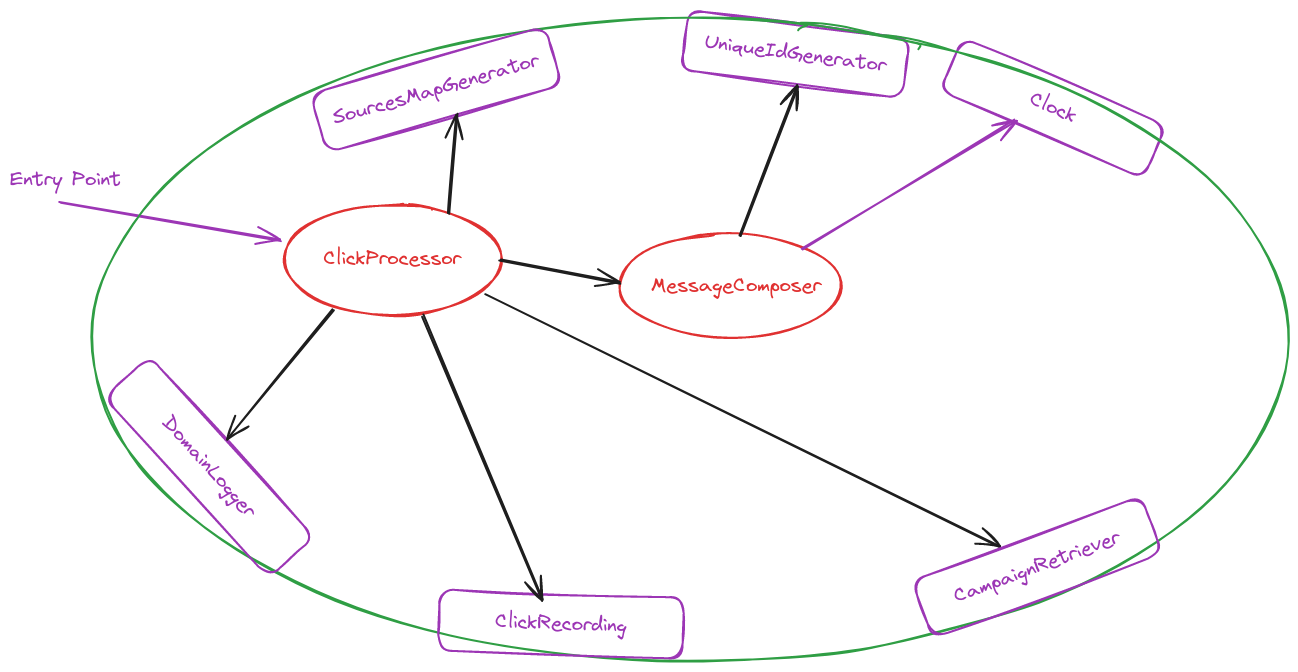
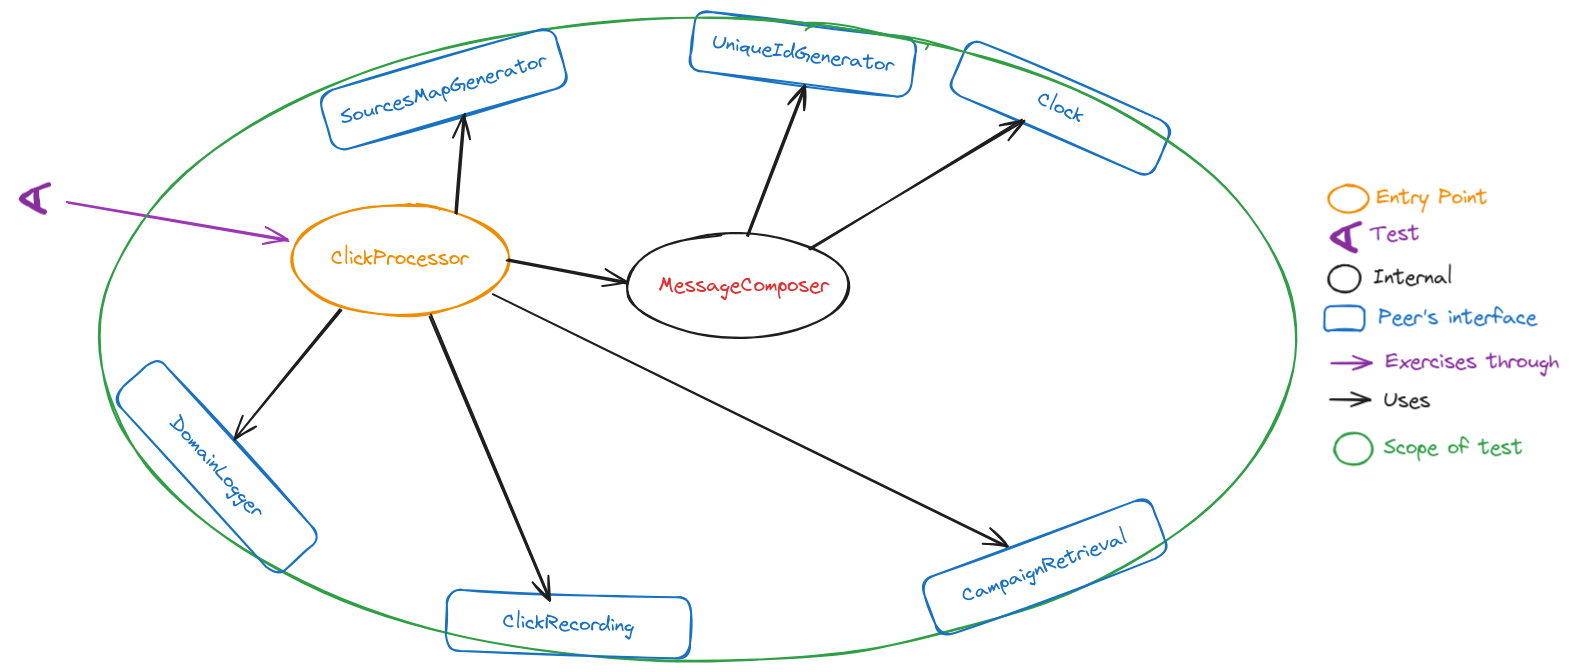
refining post

diff --git a/_i18n/es/_posts/2026-02-6-bundling-up.md b/_i18n/es/_posts/2026-02-6-bundling-up.md
@@ -51,7 +51,6 @@ In short, the **“Composite Simpler Than the Sum of Its Parts” rule of thumb 
 This rule is useful for evaluating the outcome of a refactoring that was intended to eliminate complexity by introducing a new abstraction.
 
 The **bundling up** technique can be used to detect both object and value types.
-
 ### 2. 1. Detecting value types.
 
 For value types, **bundling up** consist in detecting and eliminating existing [data clumps](https://www.informit.com/articles/article.aspx?p=2952392&seqNum=10) through refactoring<a href="#nota5"><sup>[5]</sup></a>.
@@ -64,7 +63,7 @@ Anytime we observe a cluster of related collaborator objects that work together 
 
 This composite object will hide the complexity of the cluster of related objects in an abstraction that will allow us to program at a higher level. This will not only improve cohesion, but also will reduce coupling since the consumers will only couple to the interface of the new composite object.
 
-The new abstraction will improve clarity because it delimits the scope of of the cluster of related objects more clearly, and, its having to name it will help us understand the domain better.
+The new abstraction will improve clarity because it delimits the scope of the cluster of related objects more clearly, and its having to name it will help us understand the domain better.
 
 #### 2. 2. 1. How do we apply a **bundling up**?
 
@@ -76,15 +75,12 @@ We introduce a new composite object that bundles up some object’s peers throug
 
 
 After this refactoring, the new composite object is an **internal** of the object from which it was extracted, and, as such, introducing it does not affect the tests.
-
 #### 2. 2. 2. Signals that a **bundling up** is necessary.
-
 a. Detecting code smells in production code.
 
 We may detect that the object using the cluster of related collaborating objects code suffers from the [divergent change code smell](https://www.informit.com/articles/article.aspx?p=2952392&seqNum=7) which points to a cohesion problem, the class has too many responsibilities.
 
 In chapter 20, of his [Working effectively with legacy code](https://www.oreilly.com/library/view/working-effectively-with/0131177052/) book, Michael Feather explains several heuristics to identify responsibilities in a class. Some of them might prove useful to identify clusters of fields and private methods that are being used together to fulfill a responsibility that is not the main responsibility of the class<a href="#nota7"><sup>[7]</sup></a>. If most of the fields in the cluster are peers, we have found a candidate cluster for applying a **bundling up**. Notice that those clusters might be hidden by [long methods](https://web.archive.org/web/20220516190447/https://www.informit.com/articles/article.aspx?p=102271&seqNum=3), so we may need to decompose those first.
-
 b. Detecting testability problems.
 
 These testability problems will appear in the tests of the object for which the cluster of related collaborating objects act as peers. We'll notice that the set up of the test gets too complicated, or that there are too many moving parts to get the object under test into a relevant state. The [GOOS book](linklink) authors include an example, “Bloated Constructor”**, in the chapter XX devoted to test smells that may point to design problems<a href="#nota8"><sup>[8]</sup></a>.
@@ -105,6 +101,7 @@ Then we refactored the tests, to simplify them:
 
 2. We used test doubles to simulate the behaviour of the composite in the tests of the code from which it was extracted.
 
+
 In the case of a **bundling up**, promoting the **internal** composite object to be a **peer** won't reduce the <a href="https://www.youtube.com/watch?v=bvRRbWbQwDU">structure-insensitivity</a> of the tests, as was the case for a **breaking out**. This happens because a **bundling up** reduces the overall coupling.
 
 Imagine that we have an object that has 5 peers, 3 of which form a cluster that work together to fulfill some responsibility for the object. If we **bundle up** the cluster in a new composite object and make it a peer, the object will now have 3 peers (2 original peers that were not part of the cluster + the new composite object) instead of the original 5. This means that when there are testability problems making the new composite object a peer makes sense because it increases the <a href="https://www.youtube.com/watch?v=bvRRbWbQwDU">structure-insensitivity</a> of the tests<a href="#nota9"><sup>[9]</sup></a>. 	 	 	
@@ -123,7 +120,7 @@ Some time ago, we were developing an application that processed clicks on ads in
 
 Early in the development of the application we had a design like the one shown the following diagram:
 
-Ejemplo inicial <- quizás se entienda mejor en UML??, una leyenda podría ir bien.
+
 
 <figure>
 <img src="/assets/posts/bundling-up/clickProcessor_before_before_bundling.png"
@@ -146,13 +143,13 @@ We also observed that most of the churn in `ClickProcessor` was coming from iter
 
 There were three peers that were working together to retrieve the campaign to which an ad was assigned: `CampaignsMapping`, `CampaignsRepository` and `EuroExchangeService`, so we decided to apply a **bundle up** to this cluster to shield us from the churn in the campaign retrieval logic, reduce coupling and improve the maintainability of the tests.
 
-So we extracted a new composite object, `CampaignRetriever` which packaged `CampaignsMapping`, `CampaignsRepository` and `EuroExchangeService`, and the campaign retrieval logic. 
+So we extracted a new composite object, `CampaignRetrieval` which packaged `CampaignsMapping`, `CampaignsRepository` and `EuroExchangeService`, and the campaign retrieval logic. 
 
 ### After introducing the new composite type.
 
-The new composite type, `CampaignRetriever`, was an **internal** of `ClickProcessor`. The resulting design is shown in the following diagram:
+The new composite type, `CampaignRetrieval`, was an **internal** of `ClickProcessor`. The resulting design is shown in the following diagram:
 
-Después del primer refactoring <- quizás se entienda mejor en UML??, una leyenda podría ir bien.
+
 
 <figure>
 <img src="/assets/posts/bundling-up/clickProcessor_before_bundling.png"
@@ -161,20 +158,18 @@ style="display: block; margin-left: auto; margin-right: auto; width: 100%;" />
 <figcaption><strong>Design after introducing the new composite object.</strong></figcaption>
 </figure>
 
-
 `ClickProcessor` had 5 collaborators, of which 3 were peers, `SourcesMapGenerator`, `DomainLogger` and `ClickRecording`; and 2 were internals:
 
 * `MessageComposer` which in turn had 2 peers `Clock` and `UniqueIdGenerator`; and
 
-* `CampaignRetriever` which in turn had 3 peers also `CampaignsMapping`, `CampaignsRepository` and `EuroExchangeService`.
+* `CampaignRetrieval` which in turn had 3 peers also `CampaignsMapping`, `CampaignsRepository` and `EuroExchangeService`.
 
 This refactoring reduced the overall coupling because `ClickProcessor` went from having 7 collaborators to having 5. As we explained, the coupling reduction is equal to the number of peers bundled in the new composite object minus one, in this case, 3 – 1 = 2.
 
-Since, `CampaignRetriever` was still an internal of ClickProcessor, the tests didn't change after this refactoring.
+Since, `CampaignRetrieval` was still an internal of ClickProcessor, the tests didn't change after this refactoring.
 
-Finally, we promoted `CampaignRetriever` to be a **peer** and simplified the tests (the details of this refactoring in section <a href="#refactoring_tests"><sup>2. 2. 3. Refactoring the tests</sup></a>). The resulting design is shown in the following diagram:
+Finally, we promoted `CampaignRetrieval` to be a **peer** and simplified the tests (the details of this refactoring in section <a href="#refactoring_tests"><sup>2. 2. 3. Refactoring the tests</sup></a>). The resulting design is shown in the following diagram:
 
-Después de promover el composite a peer <- quizás se entienda mejor en UML??, una leyenda podría ir bien.
 
 <figure>
 <img src="/assets/posts/bundling-up/clickProcessor_after_bundling.png"
@@ -183,8 +178,7 @@ style="display: block; margin-left: auto; margin-right: auto; width: 100%;" />
 <figcaption><strong>Design after promoting to peer the new composite object.</strong></figcaption>
 </figure>
 
-
-After this final refactoring, the `ClickProcessor` class still had 5 collaborators, but now 4 of them were peers, `SourcesMapGenerator`, `DomainLogger`, `ClickRecording` and `CampaignRetriever`; and only 1 was an internal, `MessageComposer` which in turn had 2 peers `Clock` and `UniqueIdGenerator`.
+After this final refactoring, the `ClickProcessor` class still had 5 collaborators, but now 4 of them were peers, `SourcesMapGenerator`, `DomainLogger`, `ClickRecording` and `CampaignRetrieval`; and only 1 was an internal, `MessageComposer` which in turn had 2 peers `Clock` and `UniqueIdGenerator`.
 
 The tests of `ClickProcessor` got much simpler because they were coupled to 6 peers instead of the 8 ones before the refactoring, and therefore used 6 test doubles. The reduction in coupling we observed in `ClickProcessor` in the previous step got transmitted to its tests.
 	 	 	 	
@@ -196,34 +190,50 @@ The tests of the campaign retrieval logic were also more focused and with less m
 
 Reducing the number of peers in 2 may not seem much, but shielding the tests from the churn in the campaign retrieval logic made a big difference for us.
 
-Eventually the campaign retrieval grew in complexity until it became a subsystem in its own right<a href="#nota10"><sup>[10]</sup></a>. Having applied a **bundling up** to that initial cluster of 3 objects proved to be a very successful bet.
+Eventually the logic to retrieve a campaign grew in complexity until it became a subsystem in its own right<a href="#nota10"><sup>[10]</sup></a>. Having applied a **bundling up** to that initial cluster of 3 objects proved to be a very successful bet.
 
 Besides the bet of applying a **full bundling up** eventually proved very successful, because the complexity of the campaign retrieval grew a lot. When I left the application the implementation of `CampaignRetrieval` had 5 peers and several internals, becoming a subsystem in its own right.
 
-Una especie de resumen rápido de cómo cambia el diseño de un paso a otro, Cómo lo podría representar????
 
-* Before the bundling-up process we had:
-> ClickProcessor:  1 internal (2 peers) + 6 peers.
-> ClickProcessorTest:  used 8 test doubles.
 
-* When we introduced the new composite type:
-> ClickProcessor: 1 internal (2 peers) + 1 internal (3 peers) + 3 peers.
-> ClickProcessorTest: used 8 test doubles.
 
-* After finishing the bundling-up process
-> ClickProcessor: 1 internal (with 2 peers) + 4 peers.
-> ClickProcessorTest: used 6 test doubles.
 
-Rehacer la siguiente imagen:
+<figure>
+<img src="/assets/posts/bundling-up/campaign_retrieval_subsystem.png"
+alt="CampaignRetrieval subsystem."
+style="display: block; margin-left: auto; margin-right: auto; width: 100%;" />
+<figcaption><strong>CampaignRetrieval subsystem.</strong></figcaption>
+</figure>
+
+This table summarizes the reduction in complexity on this stage of the process.
+
+| Stage                              	| ClickProcessor                                                             	| ClickProcessorTest | Complexity             	|
+|:----------------------------------------:|:--------------------------------------------------------------------------------:|:--------------------:|:----------------------------:|
+| Before bundling-up                 	| 1 internal (2 peers) + 6 peers, 8 peers in total                           	| 8 test doubles 	| Many peers, high coupling to tests |
+| After introducing composite type   	| 1 internal (2 peers) + 1 internal (3 peers) + 3 peers, 8 peers in total    	| 8 test doubles 	| Better cohesion, same coupling to tests |
+| After finishing bundling-up process	| 1 internal (with 2 peers) + 4 peers, 8 peers in total                      	| 6 test doubles 	| Same cohesion, reduced coupling to tests: improved testability |
+
+<figcaption><strong>Stages showing a reduction in complexity.</strong></figcaption>
 
 
 ## 4. Conclusions.
 
-Blablablabllablla blallvfblalla blelbel nvkjdagkljbgeñwb
+The **bundling up** technique is a refactoring that manages and reduces complexity by grouping related collaborators into a single composite object. It is an application of the **“Composite Simpler Than the Sum of Its Parts”** rule of thumb. Rather than merely aggregating objects, **bundling up**’s goal is to create a higher-level abstraction that makes the design easier to understand and use.
 
-Our next post will focus on blabla
+This technique can be applied both to value and object types. In the case of values, bundling up involves detecting and eliminating [data clumps](https://www.informit.com/articles/article.aspx?p=2952392&seqNum=10) by introducing meaningful abstractions that represent them explicitly. For objects, it consists of identifying clusters of collaborators that work together to fulfill a specific responsibility and packaging them inside a new composite object. By doing so, implicit concepts become explicit abstractions with clear boundaries and responsibilities.
+
+Applying **bundling up** brings several important design benefits. It improves [cohesion](https://blog.cleancoder.com/uncle-bob/2014/05/08/SingleReponsibilityPrinciple.html) by isolating a distinct responsibility in its own abstraction, and it reduces coupling because clients interact with a single composite object instead of multiple individual objects. It also improves clarity and understanding of the domain, since naming the new abstraction helps reveal the underlying concept it represents. At the same time, it strengthens [information hiding](https://wiki.c2.com/?InformationHiding) by shielding consumers from internal interactions and future changes within the packaged cluster of objects.
+
+In the case of object types, there are signals that indicate when **bundling up** may be necessary. In production code, code smells such as [divergent change](https://www.informit.com/articles/article.aspx?p=2952392&seqNum=7), [long methods](https://web.archive.org/web/20220516190447/https://www.informit.com/articles/article.aspx?p=102271&seqNum=3), or [large classes](https://web.archive.org/web/20220524180212/https://www.informit.com/articles/article.aspx?p=102271&seqNum=4) often point to hidden clusters of related behavior. In tests, the need for **bundling up** becomes apparent when setup logic grows complicated, when many test doubles are required, or when tests become fragile because they are tightly coupled to too many collaborators. These testability problems are strong indicators that an implicit abstraction should be made explicit.
+
+The refactoring process typically involves creating a new composite object, injecting the relevant **peers** into it, and moving the related behavior into this new abstraction. Initially, the composite can remain an **internal** of the original object, leaving existing tests unchanged. If testability problems persist, the composite can then be promoted to an explicit **peer**, which usually simplifies tests by reducing the number of awkward collaborators they must simulate. Unlike **breaking out**, **bundling up** generally increases the <a href="https://www.youtube.com/watch?v=bvRRbWbQwDU">structure-insensitivity</a> of tests because it decreases coupling.
+
+In summary, **bundling up** is an effective way to uncover meaningful abstractions, reduce complexity, and improve maintainability in both code and tests. Even small reductions in coupling can have a significant impact when they shield consumers from volatile areas of the system. As shown, in the example, over time, a well-chosen composite may naturally evolve into a subsystem of its own, confirming the value of the technique as a long-term investment to create a more sustainable design.
+
+Our next post in this series will focus on the **budding off** technique.
 	 	 	 	
 Thanks for coming to the end of this post. We hope that what we explain here will be useful to you.
+
 ## The TDD, test doubles and object-oriented design series.
 
 This post is part of a series about TDD, test doubles and object-oriented design:
@@ -244,7 +254,7 @@ This post is part of a series about TDD, test doubles and object-oriented design
 
 I'd like to thank blabla for giving me feedback about several drafts of this post.
 
-Finally, I’d also like to thank [cottonbro studio](https://www.pexels.com/es-es/@cottonbro/) for the photo.
+Finally, I’d also like to thank [Cottonbro Studio](https://www.pexels.com/es-es/@cottonbro/) for the photo.
 
 ## References.
 
